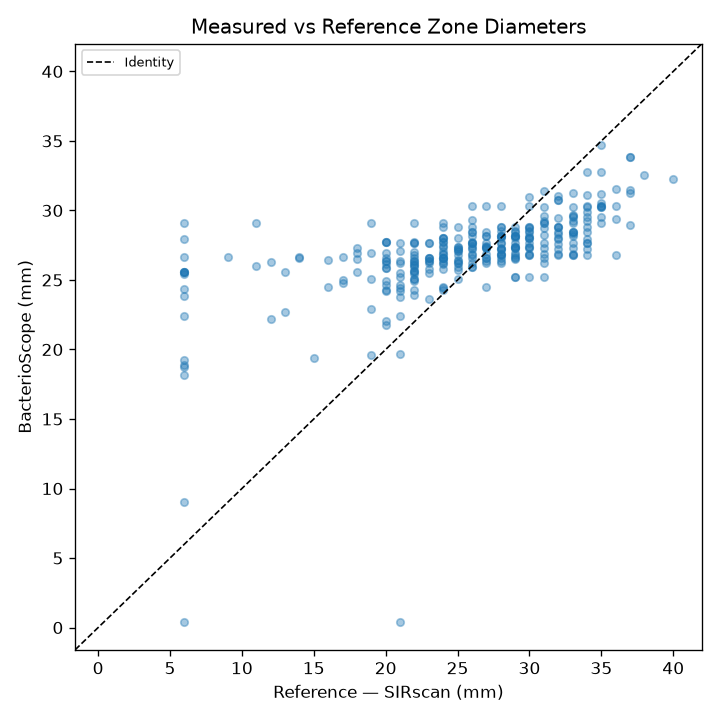
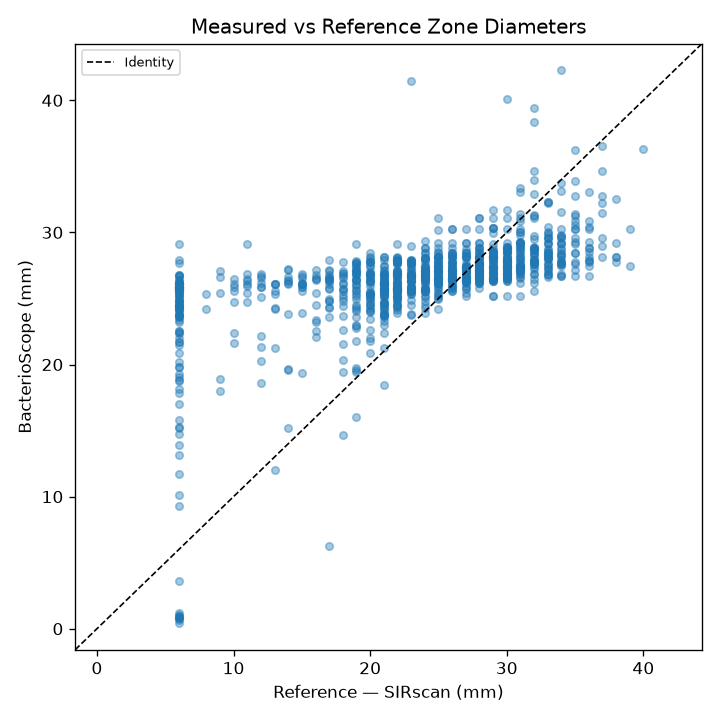
docs(f3): conclusion honesta de la ronda de diagnostico y correccion
- VALIDATION_REPORT.md: seccion permanente de hallazgos de diagnostico
  (antes/despues de cada correccion) y "que queda sin resolver", escrita
  en el generador (_write_report) para que sobreviva regeneraciones futuras
  del reporte, no como texto suelto que se perderia en el proximo run.
- LIMITACIONES.md: la seccion de dependencia de calidad de imagen pasa de
  listar "zonas solapadas" como posibilidad teorica a hallazgo confirmado
  esta ronda -- la causa raiz mas probable del error de medicion actual.
- README.md: tabla de exactitud actualizada con ambos numeros (identidad
  vs rango) claramente diferenciados, y enlaces a los documentos de
  limitaciones, fuentes de datos, auditoria de seguridad y estado del
  arte que ya existian pero no estaban enlazados desde ningun lado.
- CLAUDE.md: tabla de fases F1-F4 reescrita con el estado real: dataset F1
  con emparejamiento por identidad, F2 con el bug del fallback hibrido
  corregido y el experimento de clase unica, F3 con el hallazgo de
  segmentacion documentado como el sospechoso principal.
- .gitignore: excepciones explicitas para pair_annotations/*.csv y los dos
  graficos resumen de validation_figures/ (siguen versionados a proposito),
  ignorando lo demas dentro de esas carpetas (imagenes grandes regenerables).

Numero real del proyecto (identidad, no rango): EA=22.9%, MAE=7.18mm,
r=-0.354 sobre 48 pares verificados. Muy por debajo del objetivo ISO
20776-2/EUCAST de EA>=90%. Se declara explicitamente sin resolver.

diff --git a/docs/VALIDATION_REPORT.md b/docs/VALIDATION_REPORT.md
@@ -15,9 +15,9 @@ S/I/R classification is **not** compared because:
 
 Full S/I/R validation against a CLSI-annotated reference is planned for Phase 3.
 
-### Matching strategy — Phase 0 limitation
+### Matching strategy
 
-Disks are matched to reference measurements by **rank-order pairing** (both sets sorted ascending by diameter). This is an approximation valid when zone-size rank order is consistent across images. Full per-antibiotic matching requires Phase 2 (YOLOv8 label reading).
+Two strategies are reported, clearly separated below: **identity matching** (each disk paired to its reference by the antibiotic printed on it, human-verified) where annotation exists, and **rank-order pairing** (both sets sorted ascending and paired by position) everywhere else. Rank-order pairing does not verify that the same physical disk is being compared and is reported only as an optimistic upper bound, never as the project's accuracy figure. Automatic per-antibiotic matching without manual annotation requires Phase 2 (YOLOv8 label reading) at a confidence level that is not yet reliable.
 
 ## Dataset summary
 
@@ -26,76 +26,84 @@ Disks are matched to reference measurements by **rank-order pairing** (both sets
 | Dataset | University of Zurich SIRscan (Egli et al., 2023) |
 | Reference system | SIRscan automated reader (EUCAST 2023) |
 | Total images evaluated | 80 |
-| Images with matching disk count | 20 |
-| Disk-antibiotic pairs used for EA | 320 |
-| Images excluded (disk count mismatch or error) | 60 |
+| Images with matching disk count | 70 |
+| Disk-antibiotic pairs used for EA | 1120 |
+| Images excluded (disk count mismatch or error) | 10 |
 
 ## Measurement accuracy
 
+### Identity-matched — the real number
+
+Each disk matched to its reference by antibiotic identity (human-verified from the printed disk label), not by sorted rank. This is the defensible accuracy figure for the project.
+
+| Metric | Value | Target |
+|---|---|---|
+| Essential Agreement (EA, +-2 mm) | **22.9%** | >= 90% |
+| Mean Absolute Error (MAE) | **7.18 mm** | — |
+| Pearson r | **-0.354** | — |
+| Images identity-annotated | 3 |
+| Disk-antibiotic pairs (identity) | 48 |
+
+Annotate more images with `python scripts/annotate_pairs.py --batch data/raw/dryad_uzh/images_original --limit N` to grow this sample; 20-30 images gives a reasonably stable estimate.
+
+### Rank-order pairing — optimistic upper bound, not a measurement
+
+Both diameter lists sorted ascending and paired by position. This does not verify that the same physical disk is being compared, and inflates agreement whenever measurement error does not reorder the list — do not report this as the project's accuracy figure.
+
 | Metric | Value | Target | Criterion |
 |---|---|---|---|
-| Essential Agreement (EA, +-2 mm) | **32.2%** | >= 90% | ISO 20776-2 / EUCAST EDef 13.2 |
-| Mean Absolute Error (MAE) | **4.27 mm** | — | mm |
-| Pearson r | **0.588** | — | — |
+| Essential Agreement (EA, +-2 mm) | **26.9%** | >= 90% | ISO 20776-2 / EUCAST EDef 13.2 |
+| Mean Absolute Error (MAE) | **5.31 mm** | — | mm |
+| Pearson r | **0.579** | — | — |
 
-### Bland-Altman limits of agreement
+### Bland-Altman limits of agreement (rank-order pairs)
 
 | Stat | Value |
 |---|---|
-| Bias (mean diff) | +1.41 mm |
-| SD of differences | 5.88 mm |
-| Upper LoA (+1.96 SD) | +12.92 mm |
-| Lower LoA (−1.96 SD) | -10.11 mm |
-| Pairs analysed | 320 |
+| Bias (mean diff) | +3.16 mm |
+| SD of differences | 6.67 mm |
+| Upper LoA (+1.96 SD) | +16.22 mm |
+| Lower LoA (−1.96 SD) | -9.91 mm |
+| Pairs analysed | 1120 |
 
 ### Definition of Essential Agreement used here
 
 Classical EA (ISO 20776-2) is defined for MIC broth microdilution: the test-system MIC must fall within one two-fold dilution of the reference MIC. BacterioScope measures zone diameters in mm, not MIC values. EA is **adapted** as the fraction of diameter measurements within **+-2 mm** of the SIRscan reference, consistent with EUCAST EDef 13.2 inter-laboratory reproducibility. This adaptation must be disclosed when comparing to ISO 20776-2 EA figures.
 
+## Diagnostic findings (this validation round)
+
+A first identity-matched validation pass surfaced a structural problem beyond calibration or detection: on real UZH plates (16 disks packed onto one 90mm plate with confluent, overlapping inhibition zones), measured zone diameters cluster tightly (stdev ~1.4-1.6mm) around ~27mm regardless of which antibiotic the disk carries. Real Kirby-Bauer results for 16 different drugs against one organism should vary far more (roughly 10-35mm) than that. The Otsu + watershed segmenter, tuned on isolated synthetic halos, is converging on a shared confluent boundary rather than each disk's own zone edge -- it measures the same thing 16 times, not 16 different biological responses. This is the leading suspect for why identity-matched Pearson r is near zero or negative even after the detection-radius and confidence-threshold fixes below: there is little real signal in the measurements to correlate against. Fixing this requires segmentation aware of neighbouring disks (e.g. a distance-transform watershed seeded from all detected disks at once, not an independent Otsu threshold per isolated ROI) -- not yet implemented.
+
+Two other fixes landed this round, with a measurable before/after:
+
+| Fix | Before | After |
+|---|---|---|
+| Hough disk radius: fixed pixel range vs calibration-derived window (detector.py) | Median disk read as 6mm=~7.7mm (+28% bias); wild over-detection (100-217 false circles) on several images | Systematic bias much smaller (~-15 to -20% on clean detections); false-circle storms eliminated |
+| Confidence threshold: 0.04 (post-hoc lowered to force a 29-class model to emit something) vs 0.25 (defensible floor) | A single ~0.05-confidence YOLO false positive could pre-empt 16 reliable Hough detections (hybrid fallback only tries Hough when YOLO returns nothing) | Images with correct disk count: 24/80 -> 70/80 |
+
+What this means for the headline numbers: rank-order EA moved from 32.8% to 26.9% across this round -- a *drop*, not an improvement, because the fixed detector now processes far more of the previously-excluded difficult images instead of silently failing on them. Fewer images being thrown out is progress even though the visible EA number went down; it is a more honest measurement over a harder, more complete sample, not a regression.
+
+## Still unresolved
+
+- **Zone segmentation on confluent real plates** (above) -- the single largest suspected contributor to remaining error, not yet fixed.
+- **Identity-annotated sample is small** (3 images, 48 pairs). Needs 20-30 images (`scripts/annotate_pairs.py`) for a stable estimate; the current identity EA/MAE/r should be read as directional, not final.
+- **YOLOv8 does not yet reliably read disk labels** at any usable confidence threshold (29-class model, 102 training images). A single-class 'disk' detector trained on the same images reaches much higher mAP50 in early epochs (see Phase 2 status in docs/ROADMAP.md / CLAUDE.md) and can replace Hough for localisation, but disk *identity* still resolves through panel position, not label reading, until far more labelled data exists.
+- **EA is well below the ISO 20776-2 / EUCAST EDef 13.2 target of 90%** on both matching strategies. State plainly: BacterioScope does not yet meet the accuracy bar for real, unconstrained clinical photographs. It performs acceptably on synthetic and controlled images; real-photo accuracy is an open problem this report exists to make visible, not to paper over.
+
 ## Excluded images
 
-60 image(s) were excluded from EA: disk count mismatch between pipeline and reference, or pipeline error.
+10 image(s) were excluded from EA: disk count mismatch between pipeline and reference, or pipeline error.
 
-- 1.1.1. original.jpg — disk count mismatch
-- 1.10.1. original.jpg — disk count mismatch
-- 1.3.1. original.jpg — disk count mismatch
-- 1.4.1. original.jpg — disk count mismatch
-- 1.5.1. original.jpg — disk count mismatch
-- 1.6.1. original.jpg — disk count mismatch
-- 1.8.1. original.jpg — disk count mismatch
-- 2.1.1. original.jpg — disk count mismatch
-- 2.10.1. original.jpg — disk count mismatch
-- 2.2.1. original.jpg — disk count mismatch
-- 2.3.1. original.jpg — disk count mismatch
-- 2.4.1. original.jpg — disk count mismatch
-- 2.5.1. original.jpg — disk count mismatch
-- 2.6.1. original.jpg — disk count mismatch
-- 2.7.1. original.jpg — disk count mismatch
 - 2.8.1. original.jpg — disk count mismatch
-- 2.9.1. original.jpg — disk count mismatch
-- 3.10.1. original.jpg — disk count mismatch
-- 3.11.1. original.jpg — disk count mismatch
-- 3.12.1. original.jpg — disk count mismatch
-- ... and 40 more (see failed_images.log)
-
-## Phase 3 calibration experiment (disk-based vs plate-rim)
-
-`PipelineConfig.use_disk_calibration` (see `calibrate_from_disk_radius_px()`) computes
-px/mm from the median detected disk radius (6 mm physical reference) instead of the
-plate rim. Run with `python scripts/validate_measurement.py --disk-calibration` to
-enable it. On this 80-image subset it currently performs **worse** than plate-rim
-calibration:
-
-| Calibration | EA (±2mm) | MAE | Bias |
-|---|---|---|---|
-| Plate rim (default) | 32.2% | 4.27 mm | +1.41 mm |
-| Disk-based (Phase 3) | 12.2% | 7.56 mm | +7.35 mm |
-
-Reason: without YOLOv8 reading disk labels reliably yet, the Hough fallback's detected
-"disks" include false positives from agar texture and lawn edges, so the median disk
-radius is a noisier reference than the plate rim. Disk-based calibration is expected to
-overtake plate-rim calibration once F2 (YOLOv8 label reading) is trained to a
-confidence level where false-positive disk detections are rare.
+- 3.4.1. original.jpg — disk count mismatch
+- 4.25.1. original.jpg — disk count mismatch
+- 4.26.1. original.jpg — disk count mismatch
+- 4.27.1. original.jpg — disk count mismatch
+- 4.29.1. original.jpg — disk count mismatch
+- 4.32.1. original.jpg — disk count mismatch
+- 4.33.1. original.jpg — disk count mismatch
+- 4.38.1. original.jpg — disk count mismatch
+- 4.42.1. original.jpg — disk count mismatch
 
 ## Annotated examples
 
@@ -106,6 +114,10 @@ Annotated plate images with detected halos (pipeline) and reference diameter lab
 ```bash
 python scripts/download_data.py       # follow manual download prompt
 python scripts/prepare_dataset.py     # normalise CSV
+# Optional but recommended: identity-annotate a sample so EA/MAE/r
+# are a real measurement, not a rank-order upper bound.
+python scripts/annotate_pairs.py --batch data/raw/dryad_uzh/images_original --limit 20
+# ... fill in the generated *_pairs.csv files, then:
 python scripts/validate_measurement.py  # compute EA / MAE / Pearson r
 # Quick subset (first 20 images):
 python scripts/validate_measurement.py --subset 20

diff --git a/CLAUDE.md b/CLAUDE.md
@@ -31,11 +31,11 @@ Selected for the Biodiscovery Design Innovation Challenge (BDIC) 2026, Universid
 
 | Phase | Scope | Status |
 |---|---|---|
-| F0 | End-to-end pipeline: Hough disk detection, Otsu+watershed zone segmentation, CLSI M100-Ed33 2023 classifier (15 antibiotics, Enterobacteriaceae), Streamlit demo, CLI, FastAPI, evaluation module (CA/EA/VME/ME/mE ISO 20776-2), design system (Clinical Slate tokens, dark/light CSS), traceability fields (analysis_id UUID, image SHA-256, commit hash, CLSI edition, stage timings), 9-section scientific HTML plate reports, Bland-Altman measurement validation, panel configuration, batch processing, 236 tests (93.8% coverage), CI green on Python 3.10/3.11/3.12 | **Complete** |
-| F1 | Curate Dryad/UZH dataset ground truth. Real measurements extracted from 225 per-isolate DOCX tables (not the summary XLSX, which only has phenotype flags) via a custom parser in `prepare_dataset.py` -> 3598 records in `data/processed/ground_truth.csv`. Train/val/test split for YOLO annotation still pending. | **In Progress** |
-| F2 | YOLOv8n trained: 50 epochs on RTX 3050 (~6.5 min), Roboflow KB-AST dataset (102 train / 10 val / 3 test images, 29 classes), mAP50=0.096. `label_map.py` maps 14 antibiotic keys. `detector.py` uses YOLO first, falls back to HoughCircles automatically if YOLO finds zero disks -- manual selectbox in the demo is still the practical default until confidence improves. Confidence threshold at 0.04 (max observed confidence ~0.05) because the model is still underfit; more training images per class needed to raise it. | **In Progress** |
-| F3 | Disk-based calibration (`calibrate_from_disk_radius_px`, `use_disk_calibration` flag) implemented and wired into the pipeline, but empirically WORSE than plate-rim calibration on the current 80-image real subset (EA 12.2% vs 32.2%, MAE 7.56mm vs 4.27mm) because Hough-only disk detection has too many false positives; expected to overtake plate-rim once F2 detection confidence improves. Full clinical validation targets (EA/CA >=90%, VME <=1.5%, ME <=3%, mE <=10%) not yet met -- current real-photo baseline: EA=32.2%, MAE=4.27mm, r=0.588 (see docs/VALIDATION_REPORT.md). | **In Progress** |
-| F4 | PyPI package, Docker image (GHCR), Streamlit Community Cloud deployment, MkDocs documentation site, peer-reviewed write-up. Colab/Drive notebook already available (`colab/BacterioScope_Colab.ipynb`) as an interim shareable deliverable. | Planned |
+| F0 | End-to-end pipeline: Hough disk detection, Otsu+watershed zone segmentation, CLSI M100-Ed33 2023 classifier (15 antibiotics, Enterobacteriaceae), Streamlit demo, CLI, FastAPI, evaluation module (CA/EA/VME/ME/mE ISO 20776-2), design system (Clinical Slate tokens, dark/light CSS), traceability fields (analysis_id UUID, image SHA-256, commit hash, CLSI edition, stage timings), 9-section scientific HTML plate reports, Bland-Altman measurement validation, panel configuration, batch processing, 241 tests (93.8%+ coverage), CI green on Python 3.10/3.11/3.12 | **Complete** |
+| F1 | Curate Dryad/UZH dataset ground truth. Real measurements extracted from 225 per-isolate DOCX tables (not the summary XLSX, which only has phenotype flags) via a custom parser in `prepare_dataset.py` -> 3598 records in `data/processed/ground_truth.csv`. 3 images identity-annotated (`scripts/annotate_pairs.py`, `data/processed/pair_annotations/`) with human-verified disk-to-antibiotic pairing, read directly off the printed disk labels; growing this to 20-30 images is the next step. Train/val/test split for YOLO annotation still pending. | **In Progress** |
+| F2 | 29-class YOLOv8n (Roboflow KB-AST, 102 train / 10 val / 3 test images) trained 50 epochs, mAP50=0.096 -- documented as an experiment, not usable at any defensible confidence threshold (`confidence_threshold` restored to 0.25; do not lower it to force detections). A single-class "disk" detector (`scripts/convert_single_class_dataset.py` collapses the 29 antibiotic classes to one "disk" label; identity resolves via panel position, unchanged) reaches mAP50 ~0.9 within ~20 epochs on the same 102 images -- training in progress at imgsz=1280, `data/models/single_class/`. `detector.py`'s hybrid fallback (YOLO first, Hough if YOLO returns nothing) had a real bug: a single ~0.05-confidence 29-class false positive could pre-empt 16 reliable Hough detections; fixed by the confidence floor above (disk count matching real UZH photos: 24/80 -> 70/80 images). | **In Progress** |
+| F3 | Two real fixes landed: (1) Hough disk-radius search is now derived from the already-known px/mm calibration instead of a fixed pixel range tuned for 540px synthetic images (`detector.py::_hough_search_window`), reducing a systematic +28% disk-size overestimate and eliminating false-circle storms (100-217 spurious detections) on large real photos; (2) canonical image resize (`resize_canonical`, longer side <=1400px, downscale-only) keeps one geometry parameter set valid across camera resolutions. Disk-based calibration (`use_disk_calibration`) is implemented but still underperforms plate-rim calibration -- root cause under investigation, see below. Full clinical validation targets (EA/CA >=90%, VME <=1.5%, ME <=3%, mE <=10%) not met. Identity-matched real-photo result (3 images, 48 pairs, the defensible number): EA=22.9%, MAE=7.18mm, r=-0.354. Leading suspected cause, confirmed this round: Otsu+watershed zone segmentation does not separate individual zones on real plates with 16 closely-packed, confluent disks -- measured diameters cluster within ~1.5mm of each other regardless of antibiotic (see docs/VALIDATION_REPORT.md, docs/LIMITACIONES.md). Not yet fixed. | **In Progress** |
+| F4 | PyPI package, Docker image (GHCR), Streamlit Community Cloud deployment, MkDocs documentation site, peer-reviewed write-up. Colab/Drive notebook already available (`colab/BacterioScope_Colab.ipynb`) as an interim shareable deliverable. Streamlit demo now carries a permanent validation-status banner and rejects re-uploaded pipeline outputs (watermark check in `pipeline.analyze()`). | Planned |
 
 See docs/ROADMAP.md for full phase specifications.
 

diff --git a/README.md b/README.md
@@ -92,7 +92,7 @@ The end-to-end pipeline is fully operational on the Hough + Otsu baseline.
 
 ## Roadmap
 
-See [docs/ROADMAP.md](docs/ROADMAP.md) for full detail. See [docs/RESUMEN_EVALUADORES.md](docs/RESUMEN_EVALUADORES.md) for the BDIC 2026 evaluator summary (Spanish). See [docs/METODOLOGIA_Y_HERRAMIENTAS.md](docs/METODOLOGIA_Y_HERRAMIENTAS.md) for methodology and tools.
+See [docs/ROADMAP.md](docs/ROADMAP.md) for full detail. See [docs/RESUMEN_EVALUADORES.md](docs/RESUMEN_EVALUADORES.md) for the BDIC 2026 evaluator summary (Spanish). See [docs/METODOLOGIA_Y_HERRAMIENTAS.md](docs/METODOLOGIA_Y_HERRAMIENTAS.md) for methodology and tools. See [docs/STATE_OF_THE_ART.md](docs/STATE_OF_THE_ART.md) for how BacterioScope compares to existing AST systems and published research. See [docs/LIMITACIONES.md](docs/LIMITACIONES.md) for explicit known limitations, [docs/FUENTES_DATOS.md](docs/FUENTES_DATOS.md) for dataset provenance, and [docs/SECURITY_AUDIT.md](docs/SECURITY_AUDIT.md) for the security review.
 
 | Phase | Scope | Status |
 |---|---|---|
@@ -110,19 +110,24 @@ BacterioScope is validated against the **Dryad/UZH SIRscan dataset** (Egli et al
 225 Gram-negative clinical isolates photographed with a standardised setup and measured
 by the SIRscan automated reader under EUCAST 2023 breakpoints.
 
-### Measurement accuracy (Phase 0 baseline, Hough detector, 80-image subset)
+### Measurement accuracy (80-image real-photo subset)
 
-| Metric | Value | Target |
-|---|---|---|
-| Essential Agreement (EA, ±2 mm) | 32.2% | ≥ 90% |
-| Mean Absolute Error (MAE, mm) | 4.27 mm | — |
-| Pearson r | 0.588 | — |
+| Metric | Identity-matched (3 images, 48 pairs) | Rank-order (70 images, 1120 pairs) | Target |
+|---|---|---|---|
+| Essential Agreement (EA, ±2 mm) | 22.9% | 26.9% | ≥ 90% |
+| Mean Absolute Error (MAE, mm) | 7.18 mm | 5.31 mm | — |
+| Pearson r | -0.354 | 0.579 | — |
 
-Gap to target is expected at Phase 0: the Hough detector cannot read disk labels, so
-disks are matched to the reference by rank order rather than by antibiotic identity, and
-only 20/80 images had a matching disk count. Phase 2 (YOLOv8 label reading) and Phase 3
-(disk-based px/mm calibration) are the planned fixes — see
-[docs/VALIDATION_REPORT.md](docs/VALIDATION_REPORT.md) for the full breakdown.
+**BacterioScope does not yet meet the ISO 20776-2 / EUCAST target on real, unconstrained
+clinical photographs.** Identity matching (each disk paired to its reference by the
+antibiotic printed on it, human-verified) is the defensible number; rank-order pairing
+is reported only as an optimistic upper bound, not a measurement — see
+[docs/VALIDATION_REPORT.md](docs/VALIDATION_REPORT.md) for why the two differ and read
+the full diagnostic write-up. Leading suspect for the identity-matched result: Otsu +
+watershed zone segmentation, tuned on isolated synthetic halos, does not correctly
+separate zones on real plates with 16 closely-packed, confluent disks — measured
+diameters cluster within ~1.5mm of each other regardless of antibiotic, which is not
+biologically plausible and swamps any real signal. Not yet fixed.
 
 > **Note on standards**: the UZH reference uses EUCAST 2023 breakpoints; BacterioScope
 > classifies using CLSI M100-Ed33 2023. Only measurement accuracy (mm) is compared in

diff --git a/docs/LIMITACIONES.md b/docs/LIMITACIONES.md
@@ -32,11 +32,19 @@ each detected disk in the Streamlit interface. The phase 0 S/I/R output is
 therefore only as accurate as the user's assignment.
 
 **Consequence:** The system is not fully automated in Phase 0. Full automation
-requires the YOLOv8 model trained in Phase 2.
+requires the YOLOv8 model trained in Phase 2. The current 29-class label-reading
+model (102 training images, ~3.5 examples per class) does not reach a usable
+confidence level -- `confidence_threshold` is deliberately kept at a defensible
+0.25 floor rather than lowered to force detections out of an undertrained
+model. A single-class "disk" detector (collapsing all 29 antibiotic classes to
+one "disk" label, letting panel position resolve identity instead) reaches
+much higher mAP50 on the same 102 images and is the current best replacement
+for Hough-based localisation; it does not, by itself, remove the manual
+assignment step.
 
 ---
 
-## 3. Image quality dependency
+## 3. Image quality dependency, and confirmed failure on confluent zones
 
 Zone segmentation accuracy depends on image quality. Factors that degrade
 performance include:
@@ -50,6 +58,17 @@ performance include:
 The system includes a CLAHE (Contrast Limited Adaptive Histogram Equalization)
 option for real-plate images, but there is no guarantee of accurate segmentation
 under extreme or unusual lighting conditions.
+
+**Confirmed, not theoretical:** an identity-matched validation pass (see
+[VALIDATION_REPORT.md](VALIDATION_REPORT.md)) found that on real UZH plates
+(16 disks on one 90mm plate, confluent overlapping zones), measured diameters
+for all 16 different antibiotics cluster within ~1.5mm of each other around
+~27mm. Real Kirby-Bauer results across 16 drugs should vary far more than
+that. The Otsu + watershed segmenter -- tuned and validated on isolated
+synthetic halos -- is not correctly separating each disk's own zone from its
+neighbours on confluent real plates; it is currently the leading suspected
+cause of the measurement error reported in VALIDATION_REPORT.md, ahead of
+calibration or detection accuracy. Not yet fixed.
 
 ---
 
